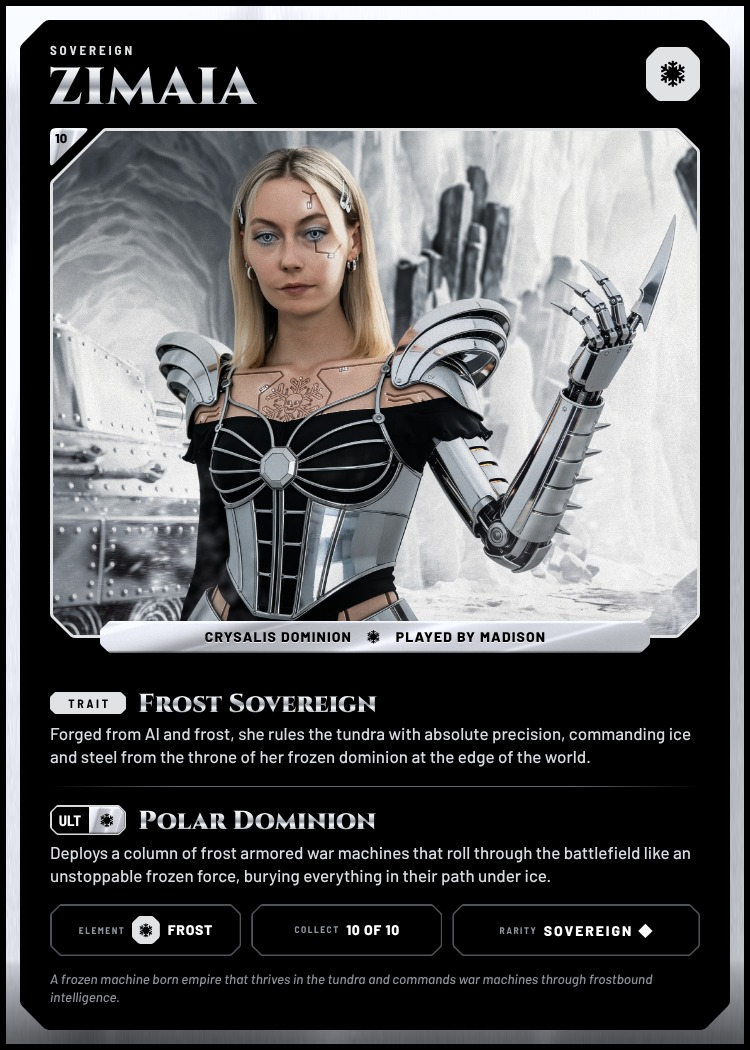
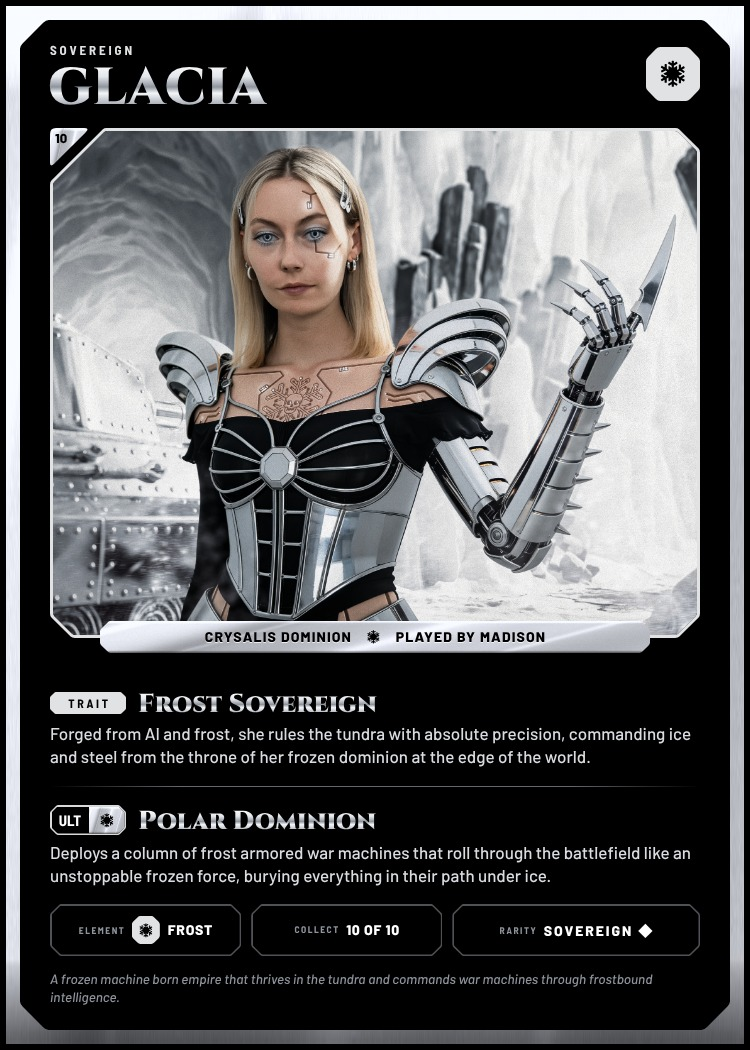
Revert Zimaia back to Glacia
Claude-Session: https://claude.ai/code/session_01XqBoTDZG36PsB1FtNjsWYS

Changed region(s): [[0.0613, 0.061, 0.368, 0.1219]]

diff --git a/10/index.html b/10/index.html
@@ -2,11 +2,11 @@
 <html lang="en"><head><meta charset="utf-8">
 <meta name="viewport" content="width=device-width,initial-scale=1,maximum-scale=1,user-scalable=no,viewport-fit=cover">
 <meta name="theme-color" content="#000000">
-<title>Zimaia | The Shattered Dominion AR</title><meta name="description" content="Step into Zimaia's realm. Madison as Zimaia, The Shattered Dominion by MindOfDerby.">
+<title>Glacia | The Shattered Dominion AR</title><meta name="description" content="Step into Glacia's realm. Madison as Glacia, The Shattered Dominion by MindOfDerby.">
 <base href="../">
 <link rel="icon" sizes="192x192" type="image/jpeg" href="https://static.wixstatic.com/media/04fb3c_0477b7cfbd684224b1bcdcc46684a7ea%7Emv2.jpg/v1/fill/w_192%2Ch_192%2Clg_1%2Cusm_0.66_1.00_0.01/04fb3c_0477b7cfbd684224b1bcdcc46684a7ea%7Emv2.jpg"><link rel="shortcut icon" type="image/jpeg" href="https://static.wixstatic.com/media/04fb3c_0477b7cfbd684224b1bcdcc46684a7ea%7Emv2.jpg/v1/fill/w_32%2Ch_32%2Clg_1%2Cusm_0.66_1.00_0.01/04fb3c_0477b7cfbd684224b1bcdcc46684a7ea%7Emv2.jpg"><link rel="apple-touch-icon" href="https://static.wixstatic.com/media/04fb3c_0477b7cfbd684224b1bcdcc46684a7ea%7Emv2.jpg/v1/fill/w_180%2Ch_180%2Clg_1%2Cusm_0.66_1.00_0.01/04fb3c_0477b7cfbd684224b1bcdcc46684a7ea%7Emv2.jpg">
 <meta property="og:type" content="website"><meta property="og:site_name" content="The Shattered Dominion by MindOfDerby">
-<meta property="og:title" content="Zimaia | The Shattered Dominion AR"><meta property="og:description" content="Step into Zimaia's realm. Madison as Zimaia, The Shattered Dominion by MindOfDerby.">
+<meta property="og:title" content="Glacia | The Shattered Dominion AR"><meta property="og:description" content="Step into Glacia's realm. Madison as Glacia, The Shattered Dominion by MindOfDerby.">
 <meta property="og:url" content="https://mindofderby.github.io/dominion-ar/10/">
 <meta property="og:image" content="https://mindofderby.github.io/dominion-ar/og/10.jpg"><meta property="og:image:width" content="1200"><meta property="og:image:height" content="630">
 <meta name="twitter:card" content="summary_large_image"><meta name="twitter:image" content="https://mindofderby.github.io/dominion-ar/og/10.jpg">
@@ -20,13 +20,13 @@
   <div style="position: absolute; left: 150px; top: 6px; width: 186px; height: 18px; clip-path: path('M6.60 0 L179.40 0 Q181.00 0 182.13 1.13 L184.87 3.87 Q186.00 5.00 186.00 6.60 L186.00 11.40 Q186.00 13.00 184.87 14.13 L182.13 16.87 Q181.00 18.00 179.40 18.00 L6.60 18.00 Q5.00 18.00 3.87 16.87 L1.13 14.13 Q0 13.00 0 11.40 L0 6.60 Q0 5.00 1.13 3.87 L3.87 1.13 Q5.00 0 6.60 0 Z'); background: url(assets/plate-h.jpg) center / 100% 100% no-repeat; display: flex; align-items: center; justify-content: center">
     <img alt="" aria-hidden="true" src="assets/icons/S10.svg" style="position: absolute; left: 4px; top: 4.25px; width: 10px; height: 9.5px; display: block; filter: brightness(0)">
     <img alt="" aria-hidden="true" src="assets/icons/S10.svg" style="position: absolute; right: 4px; top: 4.25px; width: 10px; height: 9.5px; display: block; filter: brightness(0)">
-    <span style="font-family: 'Barlow', sans-serif; font-weight: 800; font-size: 10px; line-height: 1; letter-spacing: 0.04em; color: #000000; text-shadow: 0 0.6px 0 rgba(255,255,255,0.75); white-space: nowrap; translate: 0 -0.5px">MADISON AS ZIMAIA</span>
+    <span style="font-family: 'Barlow', sans-serif; font-weight: 800; font-size: 10px; line-height: 1; letter-spacing: 0.04em; color: #000000; text-shadow: 0 0.6px 0 rgba(255,255,255,0.75); white-space: nowrap; translate: 0 -0.5px">MADISON AS GLACIA</span>
   </div>
   <div style="position: absolute; left: 28px; top: 14px; width: 40px; height: 58px; background: #000000; clip-path: polygon(0 0, 100% 0, 100% 100%, 50% 80%, 0 100%); display: flex; justify-content: center">
     <img alt="" src="assets/icons/S10.svg" style="width: 26px; height: 24px; margin-top: 12px; display: block">
   </div>
   <div style="position: absolute; left: 30px; bottom: 46px; width: 268px; display: flex; flex-direction: column; gap: 12px">
-    <h1 style="margin: 0; font-family: 'Cinzel', serif; font-weight: 900; font-size: 34px; line-height: 1; letter-spacing: 0.02em; text-transform: uppercase; filter: drop-shadow(0 3px 10px rgba(0,0,0,0.9)); background: linear-gradient(180deg, #FFFFFF 0%, #E4E7EB 28%, #8E949D 48%, #F3F5F7 60%, #A9AEB6 82%, #FFFFFF 100%); -webkit-background-clip: text; background-clip: text; color: transparent">Zimaia</h1>
+    <h1 style="margin: 0; font-family: 'Cinzel', serif; font-weight: 900; font-size: 34px; line-height: 1; letter-spacing: 0.02em; text-transform: uppercase; filter: drop-shadow(0 3px 10px rgba(0,0,0,0.9)); background: linear-gradient(180deg, #FFFFFF 0%, #E4E7EB 28%, #8E949D 48%, #F3F5F7 60%, #A9AEB6 82%, #FFFFFF 100%); -webkit-background-clip: text; background-clip: text; color: transparent">Glacia</h1>
     <p style="margin: 0; font-family: 'Barlow', sans-serif; font-weight: 700; font-size: 11px; line-height: 14px; color: #FFFFFF; text-shadow: 0 0 3px #000, 0 0 8px rgba(0,0,0,0.95), 0 1px 2px #000, 0 0 16px rgba(0,0,0,0.7)">Part of the <span style="background: url(assets/plate-h.jpg) center / 100% 100% no-repeat; color: #000000; font-weight: 800; text-shadow: 0 0.6px 0 rgba(255,255,255,0.75); -webkit-font-smoothing: antialiased; text-rendering: geometricPrecision; display: inline-block; line-height: 1.3; clip-path: polygon(0.00px 3.90px, 0.04px 3.47px, 0.16px 3.07px, 0.36px 2.70px, 0.64px 2.36px, 2.36px 0.64px, 2.70px 0.36px, 3.07px 0.16px, 3.47px 0.04px, 3.90px 0.00px, calc(100% - 3.90px) 0.00px, calc(100% - 3.47px) 0.04px, calc(100% - 3.07px) 0.16px, calc(100% - 2.70px) 0.36px, calc(100% - 2.36px) 0.64px, calc(100% - 0.64px) 2.36px, calc(100% - 0.36px) 2.70px, calc(100% - 0.16px) 3.07px, calc(100% - 0.04px) 3.47px, calc(100% - 0.00px) 3.90px, calc(100% - 0.00px) calc(100% - 3.90px), calc(100% - 0.04px) calc(100% - 3.47px), calc(100% - 0.16px) calc(100% - 3.07px), calc(100% - 0.36px) calc(100% - 2.70px), calc(100% - 0.64px) calc(100% - 2.36px), calc(100% - 2.36px) calc(100% - 0.64px), calc(100% - 2.70px) calc(100% - 0.36px), calc(100% - 3.07px) calc(100% - 0.16px), calc(100% - 3.47px) calc(100% - 0.04px), calc(100% - 3.90px) calc(100% - 0.00px), 3.90px calc(100% - 0.00px), 3.47px calc(100% - 0.04px), 3.07px calc(100% - 0.16px), 2.70px calc(100% - 0.36px), 2.36px calc(100% - 0.64px), 0.64px calc(100% - 2.36px), 0.36px calc(100% - 2.70px), 0.16px calc(100% - 3.07px), 0.04px calc(100% - 3.47px), 0.00px calc(100% - 3.90px)); padding: 0 5px; margin: 0 1px">Crysalis Dominion,</span> a frozen machine born empire that thrives in the tundra and commands armored war machines through frostbound intelligence.</p>
     <div style="display: flex; flex-direction: row; align-items: center; gap: 10px">
       <div style="flex: none; padding: 1px; background: rgba(255,255,255,0.85); clip-path: path('M 1.41 4.70 L 4.70 1.41 Q 6.11 0.00 8.11 0.00 L 85.89 0.00 Q 87.89 0.00 89.30 1.41 L 92.59 4.70 Q 94.00 6.11 94.00 8.11 L 94.00 20.89 Q 94.00 22.89 92.59 24.30 L 89.30 27.59 Q 87.89 29.00 85.89 29.00 L 8.11 29.00 Q 6.11 29.00 4.70 27.59 L 1.41 24.30 Q 0.00 22.89 0.00 20.89 L 0.00 8.11 Q 0.00 6.11 1.41 4.70 Z')"><div style="display: flex; flex-direction: row; align-items: stretch; width: 92px; height: 27px; overflow: hidden; background: #000000; clip-path: path('M 1.41 4.29 L 4.29 1.41 Q 5.70 0.00 7.70 0.00 L 84.30 0.00 Q 86.30 0.00 87.71 1.41 L 90.59 4.29 Q 92.00 5.70 92.00 7.70 L 92.00 19.30 Q 92.00 21.30 90.59 22.71 L 87.71 25.59 Q 86.30 27.00 84.30 27.00 L 7.70 27.00 Q 5.70 27.00 4.29 25.59 L 1.41 22.71 Q 0.00 21.30 0.00 19.30 L 0.00 7.70 Q 0.00 5.70 1.41 4.29 Z')">

diff --git a/book/index.html b/book/index.html
@@ -149,7 +149,7 @@ footer img{width:54px}
 <div class="txt"><span class="num">SOVEREIGN 09</span><span class="nm">Strobe</span><span class="lin">Revelyn Lineage</span><span class="ult">Ult · Blinding Lights</span></div>
 <span class="go plate">ENTER</span></div></div></a><a class="sov" href="../10/" style="--c:#E0E2E4;--img:url(../assets/roster/T10.jpg)"><div class="frame"><div class="inner">
 <div class="ico"><img src="../assets/icons/S10.svg" alt=""></div>
-<div class="txt"><span class="num">SOVEREIGN 10</span><span class="nm">Zimaia</span><span class="lin">Crysalis Dominion</span><span class="ult">Ult · Polar Dominion</span></div>
+<div class="txt"><span class="num">SOVEREIGN 10</span><span class="nm">Glacia</span><span class="lin">Crysalis Dominion</span><span class="ult">Ult · Polar Dominion</span></div>
 <span class="go plate">ENTER</span></div></div></a></div></div></section>
 <section><div class="wrap">
 <div class="head"><span class="eyebrow">AR, no app</span><h2 class="chrome">Step Inside</h2></div>
@@ -163,7 +163,7 @@ footer img{width:54px}
 <section class="cardsec"><div class="wrap">
 <div class="head"><span class="eyebrow">Collect all ten</span><h2 class="chrome">The Cards</h2></div>
 <p>Ten collectible trading cards, one per sovereign, with her trait, her ult and her element. The back of every card opens the realms.</p>
-<div class="fan"><img class="fc" src="cards/card-01-kalki.jpg" alt="Tamisra trading card" loading="lazy" style="left:14.00%;top:62.00%;--r:-30.0deg;z-index:95"><img class="fc" src="cards/card-02-banshee.jpg" alt="Banshee trading card" loading="lazy" style="left:21.20%;top:57.20%;--r:-24.0deg;z-index:96"><img class="fc" src="cards/card-03-jade.jpg" alt="Jade trading card" loading="lazy" style="left:28.40%;top:53.07%;--r:-18.0deg;z-index:97"><img class="fc" src="cards/card-04-mamba.jpg" alt="Mamba trading card" loading="lazy" style="left:35.60%;top:49.69%;--r:-12.0deg;z-index:98"><img class="fc" src="cards/card-05-gaya.jpg" alt="Gaya trading card" loading="lazy" style="left:42.80%;top:47.22%;--r:-6.0deg;z-index:99"><img class="fc back" src="cards/card-back.jpg" alt="Card back" loading="lazy" style="left:50.00%;top:46.00%;--r:0.0deg;z-index:100"><img class="fc" src="cards/card-06-flora.jpg" alt="Flora trading card" loading="lazy" style="left:57.20%;top:47.22%;--r:6.0deg;z-index:99"><img class="fc" src="cards/card-07-chrona.jpg" alt="Chrona trading card" loading="lazy" style="left:64.40%;top:49.69%;--r:12.0deg;z-index:98"><img class="fc" src="cards/card-08-hex.jpg" alt="Hex trading card" loading="lazy" style="left:71.60%;top:53.07%;--r:18.0deg;z-index:97"><img class="fc" src="cards/card-09-strobe.jpg" alt="Strobe trading card" loading="lazy" style="left:78.80%;top:57.20%;--r:24.0deg;z-index:96"><img class="fc" src="cards/card-10-glacia.jpg" alt="Zimaia trading card" loading="lazy" style="left:86.00%;top:62.00%;--r:30.0deg;z-index:95"></div>
+<div class="fan"><img class="fc" src="cards/card-01-kalki.jpg" alt="Tamisra trading card" loading="lazy" style="left:14.00%;top:62.00%;--r:-30.0deg;z-index:95"><img class="fc" src="cards/card-02-banshee.jpg" alt="Banshee trading card" loading="lazy" style="left:21.20%;top:57.20%;--r:-24.0deg;z-index:96"><img class="fc" src="cards/card-03-jade.jpg" alt="Jade trading card" loading="lazy" style="left:28.40%;top:53.07%;--r:-18.0deg;z-index:97"><img class="fc" src="cards/card-04-mamba.jpg" alt="Mamba trading card" loading="lazy" style="left:35.60%;top:49.69%;--r:-12.0deg;z-index:98"><img class="fc" src="cards/card-05-gaya.jpg" alt="Gaya trading card" loading="lazy" style="left:42.80%;top:47.22%;--r:-6.0deg;z-index:99"><img class="fc back" src="cards/card-back.jpg" alt="Card back" loading="lazy" style="left:50.00%;top:46.00%;--r:0.0deg;z-index:100"><img class="fc" src="cards/card-06-flora.jpg" alt="Flora trading card" loading="lazy" style="left:57.20%;top:47.22%;--r:6.0deg;z-index:99"><img class="fc" src="cards/card-07-chrona.jpg" alt="Chrona trading card" loading="lazy" style="left:64.40%;top:49.69%;--r:12.0deg;z-index:98"><img class="fc" src="cards/card-08-hex.jpg" alt="Hex trading card" loading="lazy" style="left:71.60%;top:53.07%;--r:18.0deg;z-index:97"><img class="fc" src="cards/card-09-strobe.jpg" alt="Strobe trading card" loading="lazy" style="left:78.80%;top:57.20%;--r:24.0deg;z-index:96"><img class="fc" src="cards/card-10-glacia.jpg" alt="Glacia trading card" loading="lazy" style="left:86.00%;top:62.00%;--r:30.0deg;z-index:95"></div>
 </div></section>
 <section id="get"><div class="wrap get">
 <span class="eyebrow">First printing</span><h2 class="chrome">Join the Waitlist</h2>

diff --git a/index.html b/index.html
@@ -112,12 +112,12 @@
         </span>
         <span style="position: absolute; left: 0; top: 0; width: 17px; height: 17px; background: #D81B79; clip-path: path('M0 2.6 Q0 0 2.6 0 L14.4 0 Q17 0 15.2 1.8 L1.8 15.2 Q0 17 0 14.4 Z'); color: #000000; font-weight: 800; font-size: 6.5px; line-height: 1; padding: 2px 0 0 2px; box-sizing: border-box">09</span>
       </button>
-      <button type="button" aria-label="Open Zimaia" onclick="location.href='10/'" style="position: relative; display: block; width: 161px; height: 62px; padding: 0; border: 0; background: none; cursor: pointer; text-align: left; font-family: 'Barlow', sans-serif; font-weight: 700; color: #FFFFFF">
+      <button type="button" aria-label="Open Glacia" onclick="location.href='10/'" style="position: relative; display: block; width: 161px; height: 62px; padding: 0; border: 0; background: none; cursor: pointer; text-align: left; font-family: 'Barlow', sans-serif; font-weight: 700; color: #FFFFFF">
         <span style="position: relative; display: flex; align-items: center; gap: 9px; padding: 0 8px 0 13px; width: 161px; height: 62px; box-sizing: border-box; background: #000 url(assets/roster/T10.jpg) center / cover no-repeat; clip-path: path('M27 0 L154 0 Q156 0 157.4 1.4 L159.6 3.6 Q161 5 161 7 L161 55 Q161 57 159.6 58.4 L157.4 60.6 Q156 62 154 62 L7 62 Q5 62 3.6 60.6 L1.4 58.4 Q0 57 0 55 L0 27 Q0 24.6 1.7 22.9 L22.9 1.7 Q24.6 0 27 0 Z')">
           <svg aria-hidden="true" width="161" height="62" viewBox="0 0 161 62" style="position: absolute; left: 0; top: 0; display: block; pointer-events: none; overflow: visible"><path d="M27 0 L154 0 Q156 0 157.4 1.4 L159.6 3.6 Q161 5 161 7 L161 55 Q161 57 159.6 58.4 L157.4 60.6 Q156 62 154 62 L7 62 Q5 62 3.6 60.6 L1.4 58.4 Q0 57 0 55 L0 27 Q0 24.6 1.7 22.9 L22.9 1.7 Q24.6 0 27 0 Z" fill="none" stroke="#E0E2E4" stroke-width="3"></path></svg>
           <img alt="" src="assets/icons/S10.svg" style="width: 32px; height: 30px; flex: none; display: block; filter: drop-shadow(0 0 6px #E0E2E488)">
           <span style="display: flex; flex-direction: column; gap: 4px; min-width: 0">
-            <span style="font-size: 20px; line-height: 1; text-transform: uppercase; filter: drop-shadow(0 0 5px rgba(0,0,0,0.9)); background: linear-gradient(180deg, #FFFFFF 0%, #E4E7EB 28%, #8E949D 48%, #F3F5F7 60%, #A9AEB6 82%, #FFFFFF 100%); -webkit-background-clip: text; background-clip: text; color: transparent">Zimaia</span>
+            <span style="font-size: 20px; line-height: 1; text-transform: uppercase; filter: drop-shadow(0 0 5px rgba(0,0,0,0.9)); background: linear-gradient(180deg, #FFFFFF 0%, #E4E7EB 28%, #8E949D 48%, #F3F5F7 60%, #A9AEB6 82%, #FFFFFF 100%); -webkit-background-clip: text; background-clip: text; color: transparent">Glacia</span>
           </span>
         </span>
         <span style="position: absolute; left: 0; top: 0; width: 17px; height: 17px; background: #E0E2E4; clip-path: path('M0 2.6 Q0 0 2.6 0 L14.4 0 Q17 0 15.2 1.8 L1.8 15.2 Q0 17 0 14.4 Z'); color: #000000; font-weight: 800; font-size: 6.5px; line-height: 1; padding: 2px 0 0 2px; box-sizing: border-box">10</span>
